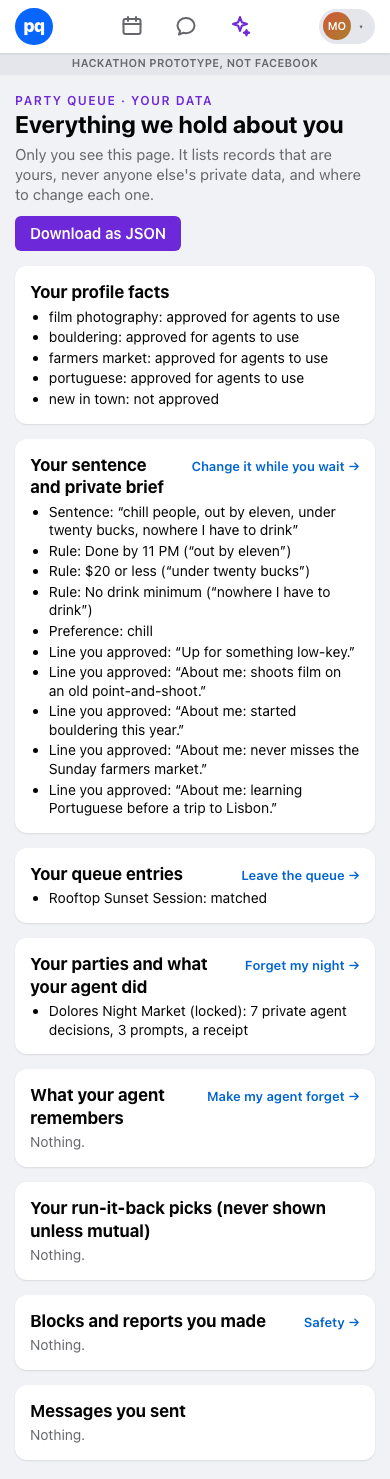
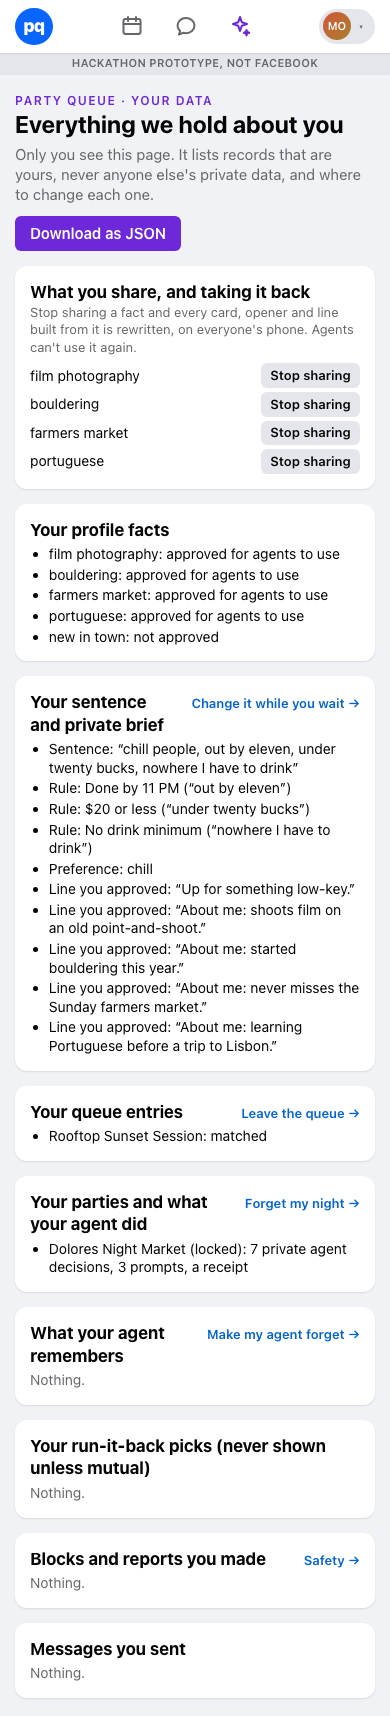
F57: Take back what you shared
Stop sharing a fact on /me and every card, opener, pair and table line
built from it is rewritten on everyone's phone, including the event
log phones replay; your line from it is withdrawn.

Changed region(s): [[0.0, 0.0, 1.0, 0.9953], [0.8923, 0.622, 0.9231, 0.6531], [0.8308, 0.7776, 0.8615, 0.8087]]

diff --git a/tests/unit/revoke.test.ts b/tests/unit/revoke.test.ts
@@ -1,0 +1,57 @@
+import { beforeEach, describe, expect, it } from "vitest";
+import { DEMO_PARTY as D } from "@/fixtures";
+import { runParty } from "@/lib/agents/orchestrator";
+import { flag } from "@/lib/flags";
+import { explainSources } from "@/lib/server/provenance";
+import { joinQueue } from "@/lib/server/queue";
+import { GREETING, REMOVED, revokeFact, sharedFacts } from "@/lib/server/revoke";
+import { everythingVisibleTo } from "@/lib/server/secret";
+import { resetStore, store } from "@/lib/server/store";
+
+const FIVE = ["dev", "ana", "kai", "zoe", "maya"];
+async function locked() {
+  resetStore();
+  for (const id of FIVE) await joinQueue({ userId: id, eventId: D.entryEventId, sentence: D.sentences[id]!, consentBridges: true, startTalk: false });
+  const pid = [...store().parties.keys()][0]!;
+  await runParty(pid, { paceMs: 0 });
+  return pid;
+}
+
+describe("take back what you shared (F57)", () => {
+  beforeEach(() => {
+    process.env.PQ_PACE_MS = "0";
+  });
+
+  it("is on by default", () => expect(flag("REVOKE_SHARING")).toBe(true));
+
+  it("Maya stops sharing film photography: nothing any of the four can load still holds it", async () => {
+    const pid = await locked();
+    // Maya's fact: its text, its question, and her line built from it. (Zoe's own "good shots lately?" is Zoe's to share.)
+    const film = ["shoots film", "point-and-shoot", "what are you shooting"];
+    const before = everythingVisibleTo(pid, "zoe").text.toLowerCase();
+    expect(film.some((w) => before.includes(w))).toBe(true);
+    const r = revokeFact("maya", "maya-f1");
+    expect(r.rewritten.cards).toBeGreaterThanOrEqual(2);
+    for (const other of ["dev", "ana", "kai", "zoe"]) {
+      const seen = everythingVisibleTo(pid, other).text.toLowerCase();
+      for (const w of film) expect(seen, `${other}: ${w}`).not.toContain(w);
+    }
+    const s = store();
+    // Zoe's card about Maya: the tie stays, the shared line and opener go; its sources still explain.
+    const card = s.cards.find((c) => c.viewerId === "zoe" && c.subjectId === "maya")!;
+    expect(card).toMatchObject({ sharedLine: null, opener: GREETING });
+    expect(card.bridgeLine).toBeTruthy();
+    for (const it of explainSources(card.sourceIds, "zoe", pid)) expect(it.ok, it.text).toBe(true);
+    // Chat openers built from it say so; Maya's approved line from it is withdrawn.
+    expect(s.messages.some((m) => m.text === REMOVED)).toBe(true);
+    expect(s.briefs.get("brief-maya")!.shareable.filter((l) => l.factIds.includes("maya-f1")).every((l) => !l.approved)).toBe(true);
+    expect(sharedFacts("maya").map((f) => f.id)).not.toContain("maya-f1");
+  });
+
+  it("only your own facts, once", async () => {
+    await locked();
+    expect(() => revokeFact("maya", "zoe-f4")).toThrow("That isn't one of your facts.");
+    revokeFact("maya", "maya-f1");
+    expect(() => revokeFact("maya", "maya-f1")).toThrow("already stopped sharing");
+  });
+});

diff --git a/lib/server/revoke.ts b/lib/server/revoke.ts
@@ -1,0 +1,66 @@
+import { flag } from "@/lib/flags";
+import { factById, profile, store } from "./store";
+
+/**
+ * Take back what you shared (F57). Approving a fact isn't forever: you can
+ * stop sharing it. Code then rewrites everything built from it, in every
+ * party: cards lose the shared line and the opener (a plain greeting stands
+ * in, built from nothing about anyone), and chat openers, pair lines and
+ * table lines say they were removed at the person's request. Your approved
+ * line built from it is withdrawn, so no agent can use it again.
+ */
+export const REMOVED = "Removed at their request.";
+export const GREETING = "Say hi, and ask how their night is going.";
+export const removedId = (factId: string) => `removed-${factId}`;
+
+export interface RevokeResult {
+  factId: string;
+  rewritten: { cards: number; messages: number; pairs: number; table: number };
+}
+
+export const sharedFacts = (userId: string) => profile(userId).facts.filter((f) => f.approved);
+
+export function revokeFact(userId: string, factId: string): RevokeResult {
+  if (!flag("REVOKE_SHARING")) throw new Error("turned off");
+  const f = factById(factId);
+  if (!f || f.ownerId !== userId) throw new Error("That isn't one of your facts.");
+  if (!f.approved) throw new Error("You already stopped sharing that.");
+  f.approved = false;
+  const s = store();
+
+  // Lines in your brief built from it are withdrawn; remember them to find table lines.
+  const lineIds = new Set<string>();
+  for (const b of s.briefs.values()) {
+    if (b.ownerId !== userId) continue;
+    for (const l of b.shareable) {
+      if (l.factIds.includes(factId)) {
+        l.approved = false;
+        lineIds.add(l.id);
+      }
+    }
+  }
+
+  let cards = 0;
+  for (const c of s.cards) {
+    if (!c.sourceIds.includes(factId)) continue;
+    c.sharedLine = null;
+    c.opener = GREETING;
+    const ties = c.sourceIds.filter((id) => !factById(id)); // bridges stay; no fact sits behind a greeting
+    c.sourceIds = ties.length ? ties : [removedId(factId)];
+    cards++;
+  }
+  const scrub = (m: { text: string; sourceIds: string[] }) => {
+    if (!m.sourceIds.some((id) => id === factId || lineIds.has(id))) return false;
+    m.text = REMOVED;
+    m.sourceIds = [];
+    return true;
+  };
+  const messages = s.messages.filter(scrub).length;
+  const pairs = s.pairs.filter(scrub).length;
+  const table = s.table.filter(scrub).length;
+  // The copies in the event log that phones replay on reconnect go too.
+  for (const e of s.events_log) {
+    if (e.type === "chat.message" || e.type === "pair.message" || e.type === "table.message") scrub(e.payload as { text: string; sourceIds: string[] });
+  }
+  return { factId, rewritten: { cards, messages, pairs, table } };
+}

diff --git a/tests/revoke.spec.ts b/tests/revoke.spec.ts
@@ -1,0 +1,42 @@
+import { expect, test } from "@playwright/test";
+import fs from "node:fs";
+import { lockedParty } from "./helpers";
+
+/* F57: Maya stops sharing "film photography"; Zoe's card about her loses the line built from it. */
+
+test("take back what you shared: Maya stops sharing a fact and Zoe's card is rewritten", async ({ browser, baseURL, request }) => {
+  test.setTimeout(150_000);
+  const partyId = await lockedParty(request);
+  const phone = async (who: string) => {
+    const ctx = await browser.newContext({ viewport: { width: 390, height: 844 } });
+    await ctx.addCookies([{ name: "pq_viewer", value: who, url: baseURL! }]);
+    return { ctx, page: await ctx.newPage() };
+  };
+  const zoe = await phone("zoe");
+  await zoe.page.goto("/party");
+  await expect(zoe.page.getByTestId("party-members")).toContainText("Maya, what are you shooting on lately?");
+
+  const maya = await phone("maya");
+  await maya.page.goto("/me");
+  await maya.page.getByTestId("stop-maya-f1").click();
+  await expect(maya.page.getByTestId("stop-sharing-msg")).toContainText("Stopped sharing “film photography”.");
+  await expect(maya.page.getByTestId("stop-maya-f1")).toHaveCount(0);
+  await maya.page.getByTestId("data-sharing").screenshot({ path: "shots/f57-stop-sharing.png" });
+
+  await zoe.page.reload();
+  // Maya's row on Zoe's card (Dev and Zoe both list film photography themselves; that stays theirs).
+  const mayaRow = zoe.page.getByTestId("party-members").locator(":scope > li", { hasText: "Maya Okafor" });
+  await expect(mayaRow).not.toContainText("what are you shooting");
+  await expect(mayaRow).not.toContainText("film photography");
+  await expect(mayaRow).toContainText("Say hi, and ask how their night is going.");
+  // At the door, too.
+  await zoe.page.goto("/door");
+  await expect(zoe.page.locator("[data-live=on]")).toHaveCount(1, { timeout: 30_000 });
+  const frame = JSON.parse(fs.readFileSync("fixtures/frames/dev-at-door.json", "utf8"));
+  await request.post("/api/frames", { data: { ...frame, viewerId: "zoe", subjectKey: "maya", partyId } });
+  await zoe.page.getByTestId("tap-maya").click();
+  await expect(zoe.page.getByTestId("door-card-opener")).toHaveText("“Say hi, and ask how their night is going.”");
+  await zoe.page.screenshot({ path: "shots/f57-door.png" });
+  await zoe.ctx.close();
+  await maya.ctx.close();
+});

diff --git a/components/me/StopSharing.tsx b/components/me/StopSharing.tsx
@@ -1,0 +1,40 @@
+"use client";
+
+import { useRouter } from "next/navigation";
+import { useState } from "react";
+
+/** Stop sharing one fact: everything built from it is rewritten for everyone. */
+export function StopSharing({ facts }: { facts: { id: string; tag: string }[] }) {
+  const router = useRouter();
+  const [msg, setMsg] = useState<string | null>(null);
+  const stop = async (id: string, tag: string) => {
+    const r = await fetch("/api/me/revoke", { method: "POST", headers: { "content-type": "application/json" }, body: JSON.stringify({ factId: id }) });
+    const body = (await r.json()) as { error?: string; rewritten?: { cards: number; messages: number; pairs: number; table: number } };
+    if (!r.ok) {
+      setMsg(body.error ?? "Couldn't stop sharing.");
+      return;
+    }
+    const w = body.rewritten!;
+    setMsg(`Stopped sharing “${tag}”. Rewritten: ${w.cards} cards, ${w.messages + w.pairs + w.table} lines.`);
+    router.refresh();
+  };
+  return (
+    <div className="mt-2" data-testid="stop-sharing">
+      <ul className="space-y-1">
+        {facts.map((f) => (
+          <li key={f.id} className="flex items-center justify-between gap-3 text-[14px]">
+            <span>{f.tag}</span>
+            <button onClick={() => stop(f.id, f.tag)} data-testid={`stop-${f.id}`} className="press rounded-[6px] bg-[var(--color-btn-2)] px-2.5 py-1 text-[13px] font-semibold">
+              Stop sharing
+            </button>
+          </li>
+        ))}
+      </ul>
+      {msg && (
+        <p className="mt-2 text-[13px] font-semibold text-[var(--color-ink-2)]" role="status" data-testid="stop-sharing-msg">
+          {msg}
+        </p>
+      )}
+    </div>
+  );
+}

diff --git a/app/me/page.tsx b/app/me/page.tsx
@@ -5,6 +5,8 @@ import { flag } from "@/lib/flags";
 import { myData } from "@/lib/server/mydata";
 import { currentViewerId } from "@/lib/server/viewer";
 import { autoForgetDue } from "@/lib/server/forget";
+import { StopSharing } from "@/components/me/StopSharing";
+import { sharedFacts } from "@/lib/server/revoke";
 
 export const metadata: Metadata = { title: "Your data" };
 export const dynamic = "force-dynamic";
@@ -24,6 +26,19 @@ export default async function MyDataPage() {
           Download as JSON
         </a>
       </div>
+      {flag("REVOKE_SHARING") && (
+        <section className="rounded-[12px] bg-white p-4 shadow-[var(--shadow-card)]" data-testid="data-sharing">
+          <h2 className="text-[17px] font-bold">What you share, and taking it back</h2>
+          <p className="text-[13px] text-[var(--color-ink-2)]">
+            Stop sharing a fact and every card, opener and line built from it is rewritten, on everyone&apos;s phone. Agents can&apos;t use it again.
+          </p>
+          {sharedFacts(viewer).length ? (
+            <StopSharing facts={sharedFacts(viewer).map((f) => ({ id: f.id, tag: f.tag }))} />
+          ) : (
+            <p className="mt-1 text-[14px] text-[var(--color-ink-2)]">You aren&apos;t sharing any facts.</p>
+          )}
+        </section>
+      )}
       {d.sections.map((s) => (
         <section key={s.id} className="rounded-[12px] bg-white p-4 shadow-[var(--shadow-card)]" data-testid={`data-${s.id}`}>
           <div className="flex items-baseline justify-between gap-3">

diff --git a/app/api/me/revoke/route.ts b/app/api/me/revoke/route.ts
@@ -1,0 +1,17 @@
+import { NextResponse } from "next/server";
+import { z } from "zod";
+import { revokeFact } from "@/lib/server/revoke";
+import { currentViewerId } from "@/lib/server/viewer";
+
+const Body = z.object({ factId: z.string() });
+
+/** Stop sharing one of your own facts. */
+export async function POST(req: Request) {
+  const body = Body.safeParse(await req.json().catch(() => null));
+  if (!body.success) return NextResponse.json({ error: "bad request" }, { status: 400 });
+  try {
+    return NextResponse.json(revokeFact(await currentViewerId(), body.data.factId));
+  } catch (e) {
+    return NextResponse.json({ error: (e as Error).message }, { status: 400 });
+  }
+}

diff --git a/lib/server/provenance.ts b/lib/server/provenance.ts
@@ -41,6 +41,11 @@ export function explainSources(sourceIds: string[], viewerId: string, partyId: s
       out.push({ kind: "plan", text: `Your party's plan: ${plan.title}.`, ok: true });
       continue;
     }
+    if (id.startsWith("removed-")) {
+      // F57: the line here used a fact its owner stopped sharing; the greeting in its place uses nothing about anyone.
+      out.push({ kind: "fact", text: "Its owner stopped sharing what this was built from; this greeting uses nothing about anyone.", ok: true });
+      continue;
+    }
     out.push({ kind: "unknown", text: "A source this app can't explain.", ok: false });
   }
   return out;

diff --git a/lib/flags.ts b/lib/flags.ts
@@ -118,6 +118,8 @@ const DEFAULTS = {
   EVENT_IMPACT: true,
   /** F56: your agent's story says when it used what it remembers about you. */
   STORY_MEMORY: true,
+  /** F57: take back what you shared: stop sharing a fact, and every card, opener and line built from it is rewritten. */
+  REVOKE_SHARING: true,
 } as const satisfies Record<string, boolean>;
 
 export type FlagName = keyof typeof DEFAULTS;

diff --git a/FEATURES.md b/FEATURES.md
@@ -85,6 +85,7 @@ hues (spread across the wheel, layout picked from a title hash).
 | 54 | Switch to plan B by asking | Naming plan B is half of it; the other half is moving five strangers to it without anyone having to rally the group. Three taps and code moves the plan, the RSVPs and the chat; nobody is the one who complained. | `PLAN_B_SWITCH` | done (F54) |
 | 55 | What Party Queue brings to an event | Events products have two sides; organisers decide whether a feature lives on their event. "1 party of five is coming tonight · 1 already here" is the organiser's reason to want it, and whole parties keep the count anonymous. | `EVENT_IMPACT` | done (F55) |
 | 56 | The story says what your agent remembered | Memory you can't see working is memory you can't trust. The receipt now says when your agent used what you let it remember, so the consent you gave after the last night is visible in what it did this night. | `STORY_MEMORY` | done (F56) |
+| 57 | Take back what you shared | Consent that can't be withdrawn isn't consent. Stopping sharing one fact rewrites everything built from it, on everyone's phone, which is what "every line maps to something someone approved" has to mean after the fact too. | `REVOKE_SHARING` | done (F57) |
 
 ## Done
 
@@ -146,3 +147,4 @@ hues (spread across the wheel, layout picked from a title hash).
 | F54 | **Switch to plan B.** Under plan B on the party card, "Switch to plan B" (then "You asked · 1 of 3 needed"). Each ask posts only a count to the chat ("1 of 3 needed asked to switch to plan B: Open Studio: Clay and Tea."). The third ask makes code move the party: the plan, all five RSVPs (off the market, onto the studio), the chat's pinned plan and its title, and a strict `party.switched` event (`{ partyId }`) with a toast, "Your party switched to plan B. Your RSVP moved." Who asked is never shown or sent. The stage board moves its lock too. | `PLAN_B_SWITCH` | `npm test -- switchplan`: `Tests 3 passed` (two asks post counts and change nothing; the third moves the plan to the studio, still locked, five RSVPs moved, the count and switch lines, the new pin and title, no member's name in any plan-B line, one event with only the party id; once per person, members only, only with a plan B). `npm run contract:check`: `PASS - 339/339`. `npx playwright test tests/switchplan.spec.ts`: Dev and Kai ask; Maya sees "Switch to plan B (2 of 3 asked)", taps, and her card shows the studio; Ana's phone gets the toast; the chat says so and is retitled: `✓ switch to plan B: … (6.1s)`. The screenshot caught the chat keeping the market's title; it's retitled now. Gate: typecheck exit 0, `Tests 261 passed (261)`, demo path passed. `shots/f54-switch-ask.png`, `shots/f54-switched.png` |
 | F55 | **What Party Queue brings to an event.** On the Event page a party chose (its locked plan is this event): "Party Queue: 1 party of five is coming tonight · 1 already here." (or "2 parties (10 people) are coming"). Whole parties only, counts only; the queue pulse (F51) then drops its own "formed here" so it isn't said twice. | `EVENT_IMPACT` | `npm test -- impact`: `Tests 2 passed` (nothing before the lock; one party coming to the market and nothing on the rooftop where they queued; two arrivals → "· 2 already here"; no names). `npx playwright test tests/impact.spec.ts` (as someone outside the party): the line, then "· 1 already here" after Dev arrives, no names, and the pulse doesn't repeat it: `✓ event impact: … (6.0s)`; `pulse`, `shots`, `mobile` pass. Gate: typecheck exit 0, `Tests 263 passed (263)`, demo path passed. `shots/f55-event-impact.png` |
 | F56 | **The story says what your agent remembered.** When your brief carries preferences remembered with your OK (F39), "How your agent did it" (F31) adds: "It used what it remembers about you: prefers quiet (remembered from Dolores Night Market)." Only in your own receipt. | `STORY_MEMORY` | `npm test -- story`: `Tests 6 passed` (adds: after Saturday remembered as too loud, Sunday's story has the exact line; none of the other four's stories mention memory). `npx playwright test tests/storymemory.spec.ts`: Saturday locks, Maya remembers "prefers quiet", the five go to Sunday trivia, her receipt has the line: `✓ story memory: … (9.7s)`; `story`, `memory` pass. Gate: typecheck exit 0, `Tests 264 passed (264)`, demo path passed. `shots/f56-story-memory.png` |
+| F57 | **Take back what you shared.** On `/me`, "What you share, and taking it back" lists your approved facts with **Stop sharing**. Stopping one marks it unapproved and rewrites everything built from it, in every party: cards lose the shared line and opener (a plain "Say hi, and ask how their night is going." stands in, built from nothing about anyone; the tie stays), and chat openers, pair lines and table lines become "Removed at their request.", including the copies in the event log phones replay on reconnect. Your approved line built from it is withdrawn, so no agent can use it again. "Why this?" explains the greeting. Found by the unit test: the first version rewrote the chat but left the event log's copy, which Dev's phone could still load. | `REVOKE_SHARING` | `npm test -- revoke`: `Tests 3 passed` (before, Zoe can load Maya's film fact; after Maya stops sharing it, none of the four can load "shoots film", "point-and-shoot" or "what are you shooting" (scanning everything each can load); Zoe's card about Maya keeps its tie, loses its line and opener, and its sources explain cleanly; a chat line says removed; her line is withdrawn; only your own facts, once). `npx playwright test tests/revoke.spec.ts`: Zoe sees Maya's opener; Maya taps Stop sharing on `/me`; Zoe's card row for Maya no longer has it and shows the greeting, and so does her door card: `✓ take back what you shared: … (6.4s)`; `whyline`, `chatwhy`, `mydata`, `a11y` pass. Gate: typecheck exit 0, `Tests 267 passed (267)`, demo path passed. `shots/f57-stop-sharing.png`, `shots/f57-door.png` |

diff --git a/README.md b/README.md
@@ -165,6 +165,7 @@ live from `/demo` → Layers, or with `PQ_FLAG_<NAME>=0|1`.
 | `PLAN_B_SWITCH` | **Switch to plan B** on the party card: when three of the five ask, code moves the plan, the RSVPs, the chat's pin and title; the chat shows only how many asked |
 | `EVENT_IMPACT` | on the Event page a party picked: "Party Queue: 1 party of five is coming tonight · 1 already here", whole parties only |
 | `STORY_MEMORY` | your agent's story says when it used what it remembers ("It used what it remembers about you: prefers quiet (remembered from Dolores Night Market).") |
+| `REVOKE_SHARING` | take back what you shared: on `/me`, **Stop sharing** a fact and every card, opener, pair and table line built from it is rewritten on everyone's phone (and in the replayable event log); agents can't use it again |
 | `NO_MATCH` | when no plan fits all five: everyone back at the front of the queue, nobody blamed, the same five never re-form; anyone whose own rules close every plan is told privately |
 
 ## Routes
@@ -211,7 +212,7 @@ inferred from a face; no score or label about a person or a pair.
 
 ```bash
 npm run typecheck
-npm test                       # 264 unit tests (vitest)
+npm test                       # 267 unit tests (vitest)
 npm run contract:check         # fixtures and events against the Zod contracts
 npm run eval -- --mock         # 7 eval suites
 npx playwright install chromium  # once, for the browser tests

diff --git a/docs/DEVPOST.md b/docs/DEVPOST.md
@@ -68,7 +68,7 @@ server, and a test records its live stream to prove it.
 - A code judge, a verifier for public lines, and pair talk where the model only picks fact ids.
 - A projector view with a scrubber that rebuilds the board (plans, signatures, the lock) at
   any moment of the replay.
-- Vitest (264 unit tests), Playwright (65+ end-to-end specs on a production build, including
+- Vitest (267 unit tests), Playwright (65+ end-to-end specs on a production build, including
   five phones at once, every route at 390 pixels and axe accessibility checks), and an eval
   harness. Fifty features, each a layer behind one flags file, each with its proof in
   `FEATURES.md`.
